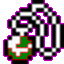
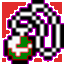
fixed bugs.

diff --git a/src/tracker.h b/src/tracker.h
@@ -126,6 +126,7 @@ class Dungeon: public TrackerObject {
 class DungeonType: public TrackerObject {
     Q_OBJECT
     public:
+        int currentimage = 0;
 
     DungeonType(QWidget *widget, QString name, int x, int y) {
         this->name = name;
@@ -133,7 +134,7 @@ class DungeonType: public TrackerObject {
         QPixmap img(img_path+"questionmark.png");
         this->label = new QLabel(widget);
         this->button = new QButton(widget);
-        this->label->setPixmap(img.scaled(15,36,Qt::KeepAspectRatio));
+        this->label->setPixmap(img.scaled(20,36,Qt::KeepAspectRatio));
         this->label->setGeometry(QRect(QPoint(x, y),QSize(48, 30)));
         this->label->setStyleSheet("background-color: rgba(0,0,0,0%); color: white; border: 0;");
         this->button->setGeometry(QRect(QPoint(x, y),QSize(48, 30)));
@@ -143,14 +144,15 @@ class DungeonType: public TrackerObject {
     void Progress() {
         QList<QString> images = { img_path+"questionmark.png", img_path+"crystal.png", img_path+"crystal-red.png", img_path+"pendant.png", img_path+"pendant-green.png" };
         
-        if (this->currentimage >= images.length()) {
-            this->currentimage = 1;
-            this->toggled ^= true;
-        } else {
+        if (this->currentimage < images.length()-1) {
             this->currentimage++;
+        } else {
+            this->currentimage = 0;
+            this->toggled ^= true;
         }
-        QPixmap img(images[this->currentimage-1]);
-        this->label->setPixmap(img.scaled(15,36,Qt::KeepAspectRatio));
+
+        QPixmap img(images[this->currentimage]);
+        this->label->setPixmap(img.scaled(20,36,Qt::KeepAspectRatio));
     }
 };
 

diff --git a/src/tracker.cpp b/src/tracker.cpp
@@ -70,7 +70,7 @@ MainWindow::MainWindow(QWidget *parent) : QMainWindow(parent) {
                              "aghanim" 
                            };
     QList<int> item_images = {2,1,0,0,0,0,0,0,0,0,0,0,0,0,0,3,0,0,0,0,0,1,0,0,0,3,2,2,0,0};
-    QList<int> smallkey_images = {0,1,1,2,1,6,1,3,1,2,3,4};
+    QList<int> smallkey_images = {0,1,1,2,1,6,1,3,1,2,3,4,4};
     
     int x = 0;
     int y = 0;
